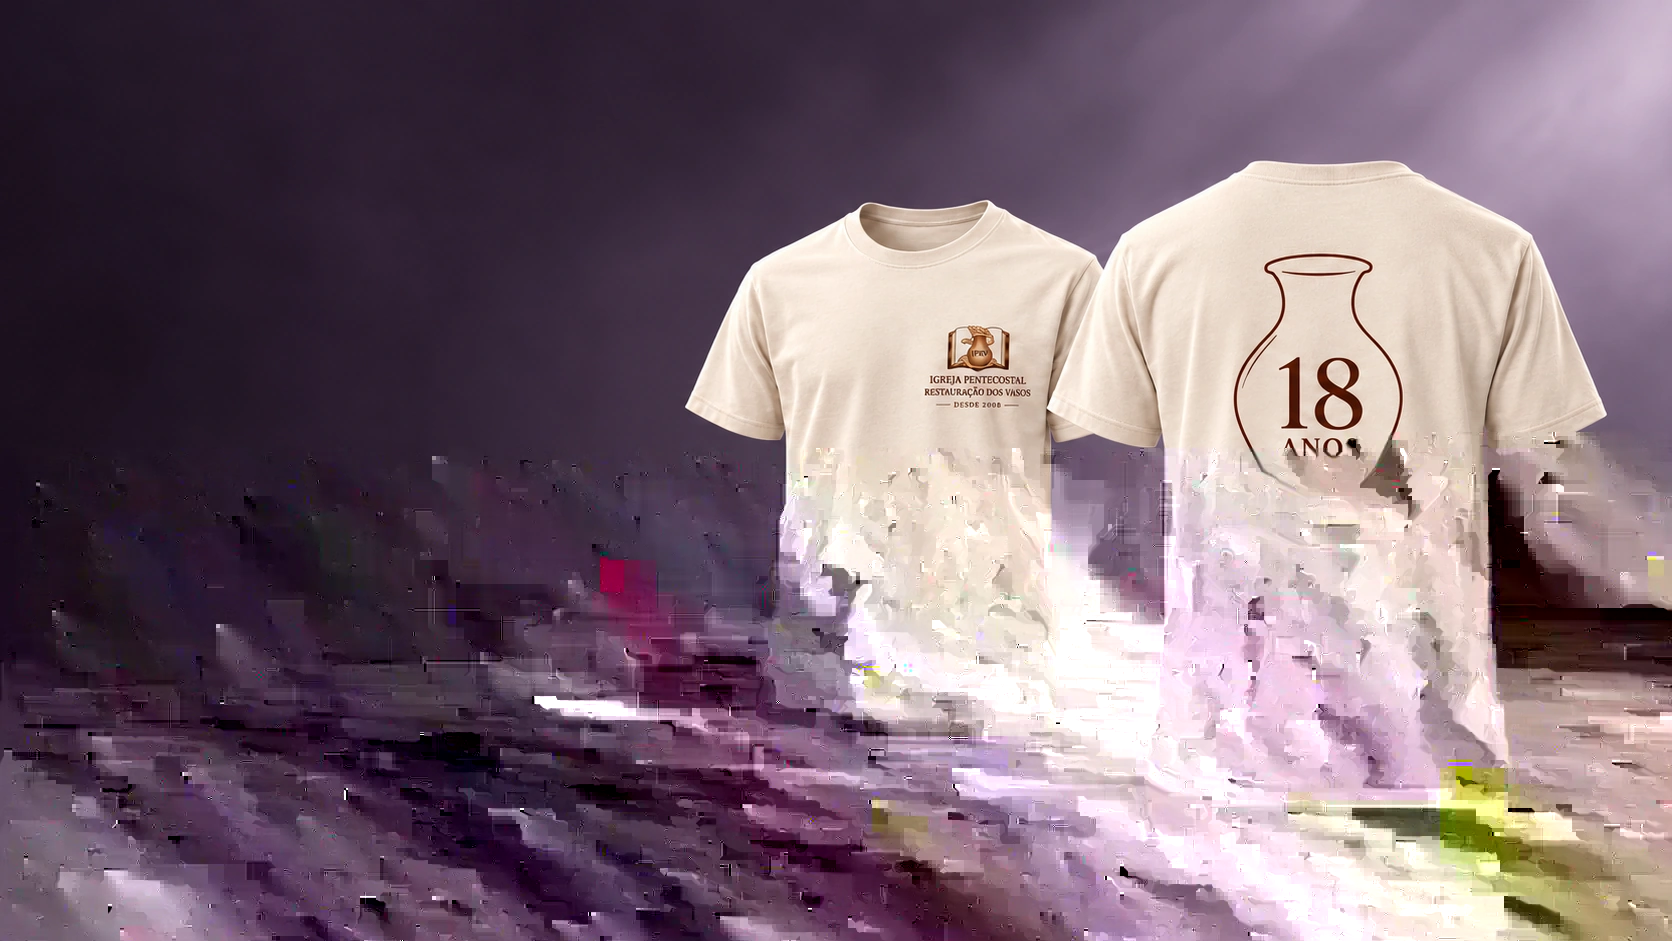
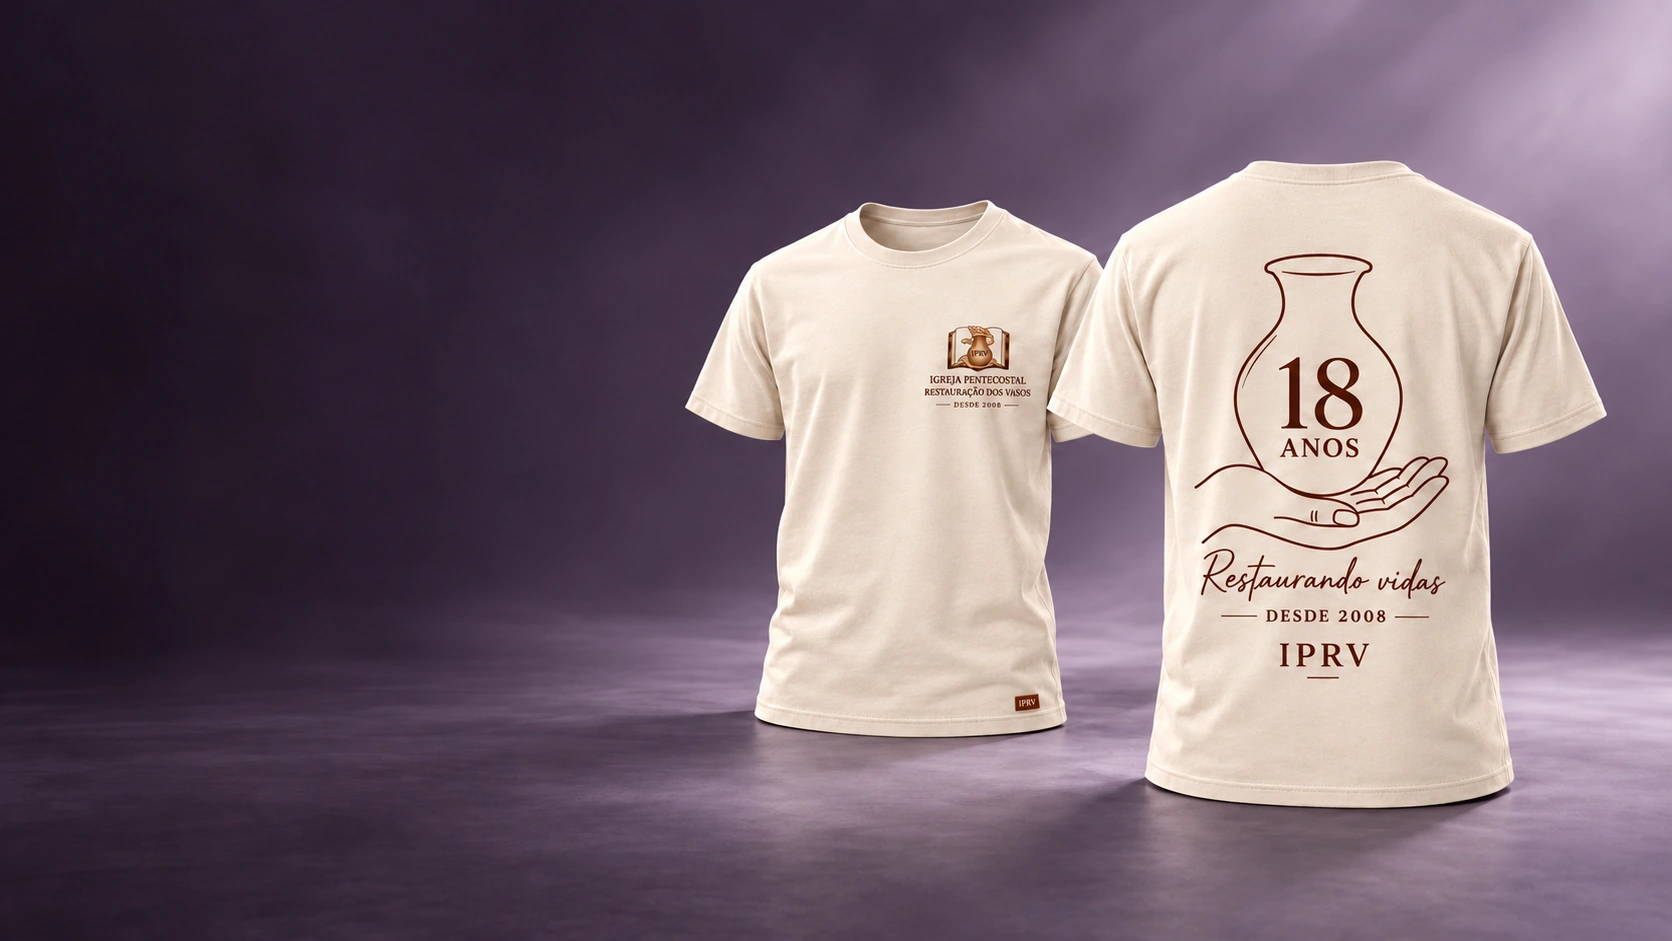
Repair corrupted opening images and stabilize scroll presentation

diff --git a/static/js/cinema-opening.js b/static/js/cinema-opening.js
@@ -13,10 +13,11 @@
  let userStarted = false;
  let inView = true;
  let covered = false;
+ let blending = false;
  let frame = 0;
  let timer;
  let request = 0;
- const allowed = () => !userPaused && !document.hidden && inView && !covered &&
+ const allowed = () => !userPaused && !document.hidden && inView && !covered && !blending &&
   (userStarted || (!reduced.matches && !(connection && connection.saveData)));
  const load = n => {
   if (loaded.has(n)) return loaded.get(n);
@@ -44,9 +45,13 @@
   const token = ++request;
   for (let tries = 0; tries < photos.length; tries++) {
    const next = ((target + tries) % photos.length + photos.length) % photos.length;
-   const ready = await load(next);
+   let ready = await load(next);
+   if (ready && photos[next].decode) {
+    try { await photos[next].decode(); } catch (_) { ready = false; }
+   }
    if (token !== request) return;
    if (!ready) continue;
+   if (!allowed()) return;
    photos[index].classList.remove('is-active');
    photos[next].classList.add('is-active');
    index = next;
@@ -62,16 +67,18 @@
   const sheetTop = sheet.getBoundingClientRect().top;
   const p = Math.max(0, Math.min(1, (rect.bottom - sheetTop) / Math.max(1, rect.height)));
   const blend = p * p * (3 - 2 * p);
-  stage.style.setProperty('--cinema-scroll-blur', `${(reduced.matches ? 0 : blend * 14).toFixed(2)}px`);
+  stage.style.setProperty('--cinema-scroll-blur', `${(reduced.matches ? 0 : blend * 10).toFixed(2)}px`);
   stage.style.setProperty('--cinema-scroll-opacity', (1 - blend * .45).toFixed(3));
   stage.style.setProperty('--cinema-tint-opacity', (blend * .48).toFixed(3));
   stage.style.setProperty('--cinema-text-opacity', Math.max(0, 1 - p * 1.5).toFixed(3));
   stage.style.setProperty('--cinema-text-blur', `${(reduced.matches ? 0 : blend * 4).toFixed(2)}px`);
   const wasCovered = covered;
+  const wasBlending = blending;
+  blending = p > .025;
   covered = sheetTop <= rect.top + 2;
   stage.style.setProperty('--cinema-photo-shift', reduced.matches ? '0px' : `${(p * rect.height * .08).toFixed(2)}px`);
   stage.inert = covered;
-  if (covered !== wasCovered) sync();
+  if (covered !== wasCovered || blending !== wasBlending) sync();
  };
  const schedule = () => { if (!frame) frame = requestAnimationFrame(measure); };
  stage.addEventListener('keydown', event => {

diff --git a/templates/_cinema_opening.html b/templates/_cinema_opening.html
@@ -2,9 +2,9 @@
  <div class="cinema-stage" tabindex="0" aria-label="Apresentação de produtos personalizados. Pressione espaço para pausar ou continuar as fotos." aria-keyshortcuts="Space">
   <div class="cinema-background" aria-hidden="true">
    <img class="cinema-photo is-active" src="{{ url_for('static',filename='img/inicio/abertura/camiseta-panoramica-v1.webp') }}" data-photo-title="A identidade da sua equipe." alt="" width="1672" height="941" decoding="async" fetchpriority="high">
-   <img class="cinema-photo" data-src="{{ url_for('static',filename='img/inicio/abertura/kit-panoramica-v2.webp') }}" data-photo-title="Personalizados para a Band Minas." alt="" width="1672" height="941" decoding="async">
-   <img class="cinema-photo" data-src="{{ url_for('static',filename='img/inicio/abertura/sacochila-panoramica-v2.webp') }}" data-photo-title="Sacochilas para o Circuito das Indústrias." alt="" width="1672" height="941" decoding="async">
-   <img class="cinema-photo" data-src="{{ url_for('static',filename='img/inicio/abertura/evento-panoramica-v2.webp') }}" data-photo-title="Camisetas para reunir pessoas." alt="" width="1672" height="941" decoding="async">
+   <img class="cinema-photo" data-src="{{ url_for('static',filename='img/inicio/abertura/kit-panoramica-v2.webp',v='20261019-clean-v3') }}" data-photo-title="Personalizados para a Band Minas." alt="" width="1672" height="941" decoding="async">
+   <img class="cinema-photo" data-src="{{ url_for('static',filename='img/inicio/abertura/sacochila-panoramica-v2.webp',v='20261019-clean-v3') }}" data-photo-title="Sacochilas para o Circuito das Indústrias." alt="" width="1672" height="941" decoding="async">
+   <img class="cinema-photo" data-src="{{ url_for('static',filename='img/inicio/abertura/evento-panoramica-v2.webp',v='20261019-clean-v3') }}" data-photo-title="Camisetas para reunir pessoas." alt="" width="1672" height="941" decoding="async">
   </div>
   <div class="cinema-light" aria-hidden="true"></div>
   <div class="container cinema-inner">

diff --git a/static/css/cinema-opening.css b/static/css/cinema-opening.css
@@ -20,7 +20,7 @@
 .home-cinema .cinema-background{filter:blur(var(--cinema-scroll-blur,0px));opacity:var(--cinema-scroll-opacity,1)}
 .home-cinema .cinema-copy{filter:blur(var(--cinema-text-blur,0px));opacity:var(--cinema-text-opacity,1)}
 .home-cinema .cinema-stage:after{content:"";position:absolute;inset:0;z-index:3;background:#c9a3dc;opacity:var(--cinema-tint-opacity,0);pointer-events:none}
-.home-cinema .home-content-sheet:before{content:"";position:absolute;inset:auto -2px 100%;height:clamp(100px,18svh,190px);background:linear-gradient(to bottom,#c9a3dc00,#c9a3dc26 26%,#c9a3dc91 62%,#c9a3dc 100%);backdrop-filter:blur(10px);-webkit-backdrop-filter:blur(10px);mask-image:linear-gradient(to bottom,transparent,#000 72%);pointer-events:none}
+.home-cinema .home-content-sheet:before{content:"";position:absolute;inset:auto -2px 100%;height:clamp(100px,18svh,190px);background:linear-gradient(to bottom,#c9a3dc00,#c9a3dc26 26%,#c9a3dc91 62%,#c9a3dc 100%);mask-image:linear-gradient(to bottom,transparent,#000 72%);pointer-events:none}
 @media(prefers-reduced-motion:reduce){.home-cinema .home-content-sheet:before{backdrop-filter:none;-webkit-backdrop-filter:none}}
 .home-cinema #megui-theme-slides .welcome-carousel,.home-cinema #megui-theme-slides .carousel-slide{background:transparent}
 @media(min-width:601px) and (max-width:900px){

diff --git a/templates/index.html b/templates/index.html
@@ -147,7 +147,7 @@
 
 <link rel="stylesheet" href="{{ url_for('static',filename='css/knit-journal.css',v='20261016-v3') }}">
 <link rel="stylesheet" href="{{ url_for('static',filename='css/mostruario.css',v='20261018-v1') }}">
-<link rel="stylesheet" href="{{ url_for('static',filename='css/cinema-opening.css',v='20261019-blend-text-v9') }}">
+<link rel="stylesheet" href="{{ url_for('static',filename='css/cinema-opening.css',v='20261019-clean-v10') }}">
 <link rel="stylesheet" href="{{ url_for('static',filename='css/services-discovery.css',v='20261019-v1') }}">
 {% endblock %}
 {% block content %}
@@ -361,4 +361,4 @@
 </div>
 {% endblock %}
 
-{% block extra_scripts %}<script defer src="{{ url_for('static',filename='js/services-discovery.js',v='20261019-v1') }}"></script><script defer src="{{ url_for('static',filename='js/cinema-opening.js',v='20261019-blend-text-v9') }}"></script>{% endblock %}
+{% block extra_scripts %}<script defer src="{{ url_for('static',filename='js/services-discovery.js',v='20261019-v1') }}"></script><script defer src="{{ url_for('static',filename='js/cinema-opening.js',v='20261019-clean-v10') }}"></script>{% endblock %}
